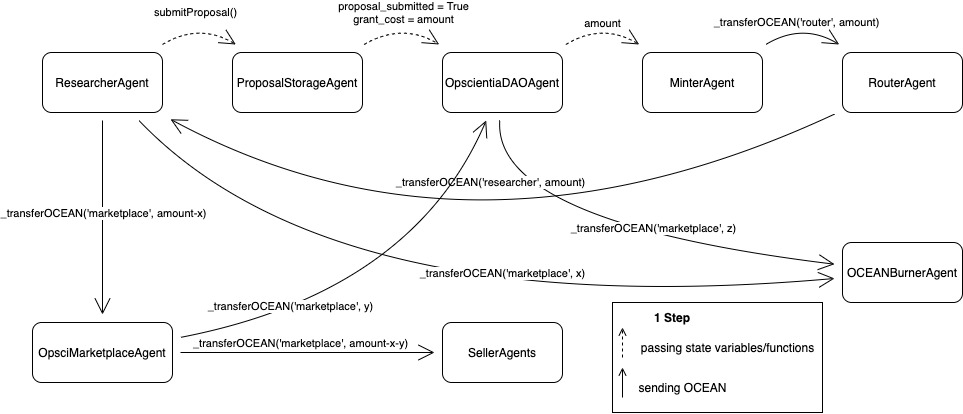
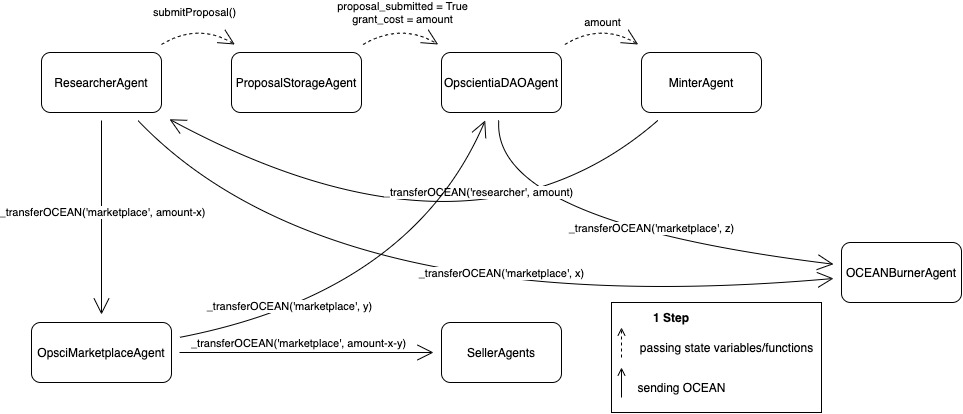
WIP: deleted RouterAgent from schema and description

diff --git a/assets/netlists/opsci_naive/about.md b/assets/netlists/opsci_naive/about.md
@@ -16,13 +16,14 @@ The key metrics measured in this simulation are:
 
 ### List of Agents
 - ```ResearcherAgent```
-- ```RouterAgent```
 - ```OpsciMarketplaceAgent```
 - ```SellerAgent```
 - ```OCEANBurnerAgent```
 - ```OCEANMinterAgent```
 - ```OpscientiaDAOAgent``` (Token Treasury above)
 - ```ProposalStorageAgent``` (Research Funding Marketplace above)
+
+Note: in this implementation, the function of the ```RouterAgent``` from the diagram above can be performed by ```OCEANMinterAgent```
 
 ### Description of one step in the loop
 
@@ -31,8 +32,7 @@ The key metrics measured in this simulation are:
 1. ```ResearcherAgent``` publishes a grant proposal (fixed price) to ```ProposalStorageAgent```
 2. ```ProposalStorageAgent``` sends data about the proposal to ```OpscientiaDAOAgent```
 3. ```OpscientiaDAOAgent``` tells ```OCEANMinterAgent``` to mint the corresponding amount of OCEAN
-4. ```OCEANMinterAgent``` sends the minted OCEAN to ```RouterAgent```
-5. ```RouterAgent``` sends everything to ```ResearcherAgent```
+4. ```OCEANMinterAgent``` sends the minted OCEAN to ```ResearcherAgent```
 6. ```ResearcherAgent``` sends all funds to ```OpsciMarketplaceAgent``` and ```OCEANBurnerAgent``` in a fixed ratio
 7. ```OpsciMarketplaceAgent``` sends all funds evenly to all instances of ```SellerAgent``` and a fixed amount to ```OpscientiaDAOAgent``` (equivalent to a partial ownership of the research assets by the DAO)
 8. ```OpscientiaDAOAgent``` sends a fixed amount of OCEAN to ```OCEANBurnerAgent```
